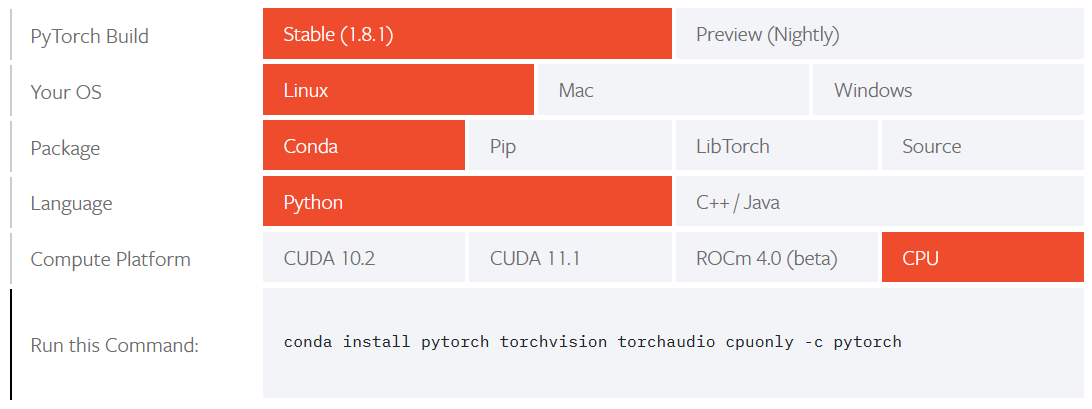
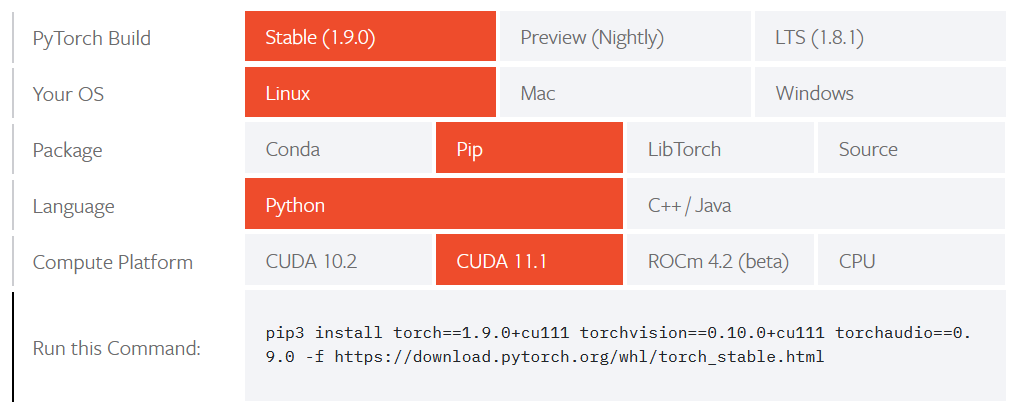
Fixed installation script to use pip and to use the GPU enabled version

diff --git a/source/education/pytorch/intro_installation.rst b/source/education/pytorch/intro_installation.rst
@@ -23,13 +23,13 @@ Bu bağlantıda aşağıdaki seçenekler bulunabilir:
    :alt: res/installation_options.png
 
 
-.. The first five columns are for the user to select the installation configuration, and the final column shows the command to be called to install the package. In this example above, we are installing PyTorch on a Linux system with no GPU support. We are using Conda and we want to install the Python interface. To do so, we open a terminal and execute the following command
+.. The first five columns are for the user to select the installation configuration, and the final column shows the command to be called to install the package. In this example above, we are installing PyTorch on a Linux system with GPU support. We are using pip and we want to install the Python interface. To do so, we open a terminal and execute the following command
 
-Şekildeki ilk beş satır, kullanıcının kurulum yapılandırmasını seçmesi içindir ve son satır, paketi kurmak için çağrılacak komutu gösterir. Yukarıdaki örnekte PyTorch, GPU desteği olmayan bir Linux sistemine kurulacaktır. Biz bu örnekte Conda kullanıyoruz ve Python arayüzü ile kuracağız. Bunu yapmak için bir terminal açalım ve aşağıdaki komutu uygulayalım. 
+Şekildeki ilk beş satır, kullanıcının kurulum yapılandırmasını seçmesi içindir ve son satır, paketi kurmak için çağrılacak komutu gösterir. Yukarıdaki örnekte PyTorch, GPU var olmayan bir Linux sistemine kurulacaktır. Biz bu örnekte pip kullanıyoruz ve Python arayüzü ile kuracağız. Bunu yapmak için bir terminal açalım ve aşağıdaki komutu uygulayalım. 
 
 .. code-block:: bash
 
-   conda install pytorch torchvision torchaudio cpuonly -c pytorch
+   pip3 install torch==1.9.0+cu111 torchvision==0.10.0+cu111 torchaudio==0.9.0 -f https://download.pytorch.org/whl/torch_stable.html
 
 .. TRUBA installation
 
@@ -96,7 +96,7 @@ PyTorch'u Kurmak
 
    .. code-block:: bash
 
-       conda install pytorch torchvision torchaudio cpuonly -c pytorch
+       pip3 install torch==1.9.0+cu111 torchvision==0.10.0+cu111 torchaudio==0.9.0 -f https://download.pytorch.org/whl/torch_stable.html
 
 .. #. (optional) create a new Conda environment
 
@@ -136,6 +136,7 @@ PyTorch'u Conda kullanarak TRUBA'ya kurduysanız, o zaman Conda'yı başlatmanı
    #!/bin/bash
    #SBATCH --account=<account>
    #SBATCH --job-name=pyt_ex
+   #SBATCH --partition=debug
    #SBATCH --ntasks=1
    #SBATCH --time=1-00:00:00
 
